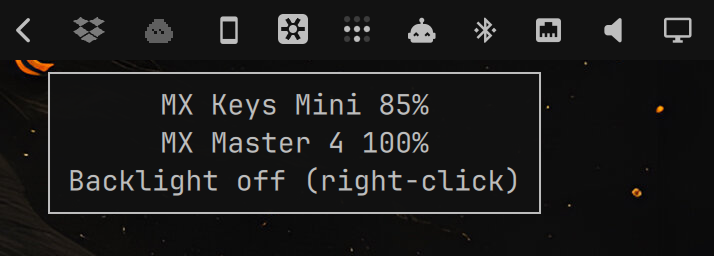
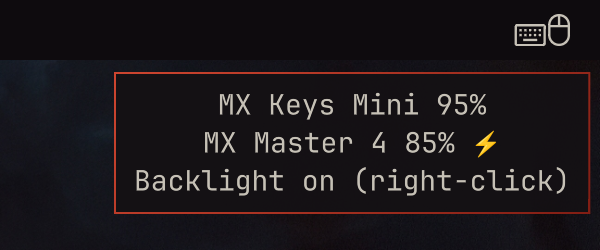
Solaarchy 1.1.0: version, screenshots, tour
New screenshots in one theme, at 2x: the devices, a keyboard's drawer,
the Circadian page, Settings, the picker with auto, the bulb's tooltip,
the bar tooltip, and an asleep keyboard with the auto icon showing the
mouse. A short tour GIF leads the README, and preview.png shows a drawer
next to the Circadian page.

Claude-Session: https://claude.ai/code/session_01VyyFAU5VxJ6EbanRajBBbj

diff --git a/README.md b/README.md
@@ -5,7 +5,7 @@ Every connected Logitech device at a glance, in the
 ones are awake, and the keyboard backlight — one click away, without opening an
 app. Read through [Solaar](https://github.com/pwr-Solaar/Solaar).
 
-<img src="screenshots/panel.png" alt="Solaarchy panel with a keyboard and a mouse, MX Master 4 charging" width="396">
+<img src="screenshots/tour.gif" alt="A tour of the Solaarchy panel: the devices, a keyboard's drawer, the Circadian page, the bar icon picker, Settings, and the auto bar icon switching to the mouse while the keyboard sleeps" width="361">
 
 - Battery level, charging state and a charge bar for each device
 - Live updates: a device that switches off or goes to sleep shows as **Asleep**
@@ -23,6 +23,8 @@ app. Read through [Solaar](https://github.com/pwr-Solaar/Solaar).
   [add-ons](addons/ADDONS.md)
 - Settings in the panel, behind the gear; the bar icon picker behind the big
   icon; a one-click way to open Solaar
+- An **auto** bar icon that shows the keyboard, the mouse, or both, whichever
+  are on
 - The widget hides itself while no receiver is plugged in and no Logitech
   device is connected or paired over Bluetooth (optional)
 - Last readings survive shell restarts
@@ -35,23 +37,42 @@ Logitech or the Solaar project.
 <table>
   <tr>
     <td align="center" valign="top">
-      <img src="screenshots/bar-tooltip.png" alt="Tooltip on the bar icon listing each device's battery and the backlight state" width="357"><br>
-      <sub>Hover the bar icon for every battery level at a glance</sub>
+      <img src="screenshots/panel.png" alt="The devices: a keyboard with its backlight bulb, and a charging MX Master 4" width="344"><br>
+      <sub>Every device's battery, charging, and the keyboard's bulb</sub>
     </td>
     <td align="center" valign="top">
-      <img src="screenshots/panel-backlight-hint.png" alt="Backlight bulb next to the keyboard name with its hint" width="387"><br>
-      <sub>The bulb next to a keyboard switches its backlight</sub>
+      <img src="screenshots/bar-tooltip.png" alt="Tooltip on the bar icon listing each device's battery and the backlight state" width="300"><br>
+      <sub>Hover the bar icon for every battery level at a glance</sub>
     </td>
   </tr>
   <tr>
     <td align="center" valign="top">
-      <img src="screenshots/panel-asleep.png" alt="A sleeping keyboard keeps its last reading, with the keyboard and mouse bar icon" width="393"><br>
-      <sub>A sleeping keyboard keeps its last reading; bar icon: keyboard + mouse</sub>
+      <img src="screenshots/drawer.png" alt="A keyboard's drawer: the Lighting section with Circadian, other capabilities, and Hide this device" width="344"><br>
+      <sub>Each device has a drawer: Circadian for the keyboard, and room for add-ons</sub>
     </td>
     <td align="center" valign="top">
-      <img src="screenshots/icon-picker.png" alt="The bar icon picker: the Solaar icon, the device icons, and a YOUR OWN row holding two user-supplied SVGs and the + button" width="272"><br>
-      <sub>Customise the bar icon: Solaar's own, a device icon, or any SVG you
-      add yourself with <b>+</b></sub>
+      <img src="screenshots/circadian.png" alt="The Circadian page: today as a 24-hour strip, the timing and the location" width="344"><br>
+      <sub>Circadian: today as a strip, the timing, and where you are</sub>
+    </td>
+  </tr>
+  <tr>
+    <td align="center" valign="top">
+      <img src="screenshots/panel-backlight-hint.png" alt="The bulb's tooltip with the backlight state and Circadian's times" width="344"><br>
+      <sub>The bulb switches the backlight; its tooltip has Circadian's times</sub>
+    </td>
+    <td align="center" valign="top">
+      <img src="screenshots/panel-asleep.png" alt="A sleeping keyboard keeps its last reading, and the auto bar icon shows only the mouse" width="361"><br>
+      <sub>A sleeping keyboard keeps its last reading; the auto icon shows the mouse that's awake</sub>
+    </td>
+  </tr>
+  <tr>
+    <td align="center" valign="top">
+      <img src="screenshots/icon-picker.png" alt="The bar icon picker: Solaar's icon, auto and the device icons, and two SVGs of the user's own" width="344"><br>
+      <sub>The bar icon: Solaar's own, auto, a device icon, or any SVG you add with <b>+</b></sub>
+    </td>
+    <td align="center" valign="top">
+      <img src="screenshots/settings.png" alt="Settings: built-in add-ons, notifications, the bar, and curated add-ons" width="344"><br>
+      <sub>Settings: built-in add-ons, notifications, the bar, curated add-ons</sub>
     </td>
   </tr>
 </table>
